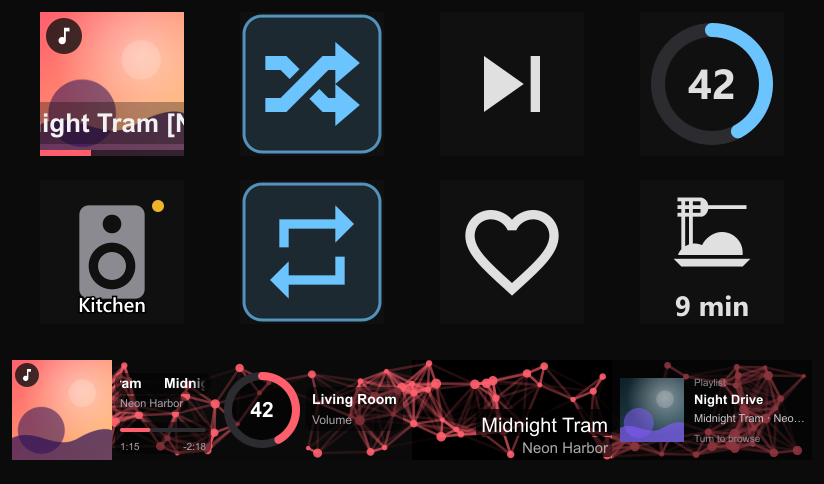
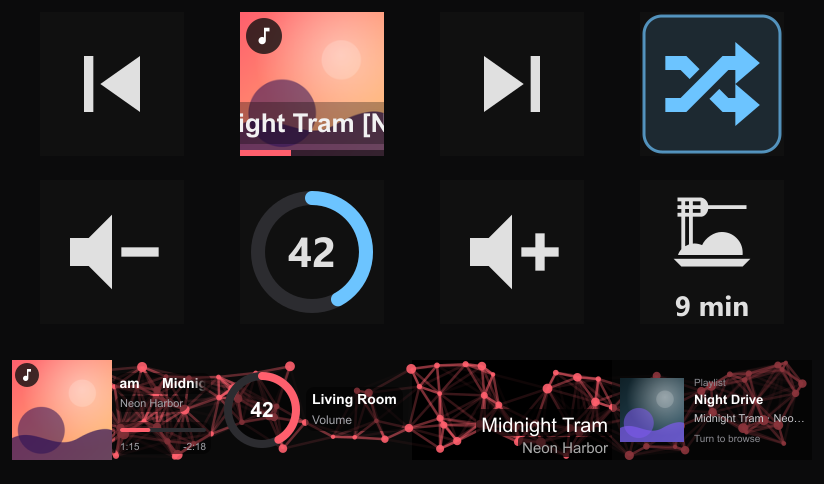
Showcase: synced-lyrics scene (invented lyrics), keys laid out like a real deck

diff --git a/README.md b/README.md
@@ -36,8 +36,10 @@ MAC is the sister project of **[Sonos Controller](https://github.com/rocklobster
 |---|---|
 | ![Panorama: one effect across all four dials, with the title](docs/screenshots/02-panorama.png) | ![Matrix rain behind the Track and Group Volume dials](docs/screenshots/03-matrix.png) |
 | **Panorama:** one scene across neighbouring dials, with the title or synced lyrics on top | **Effect backgrounds** behind any dial, here Matrix Rain |
-| ![Browser, Queue, Active Player and Volume dials](docs/screenshots/04-browser.png) | ![Keys and dials](docs/screenshots/01-overview.png) |
-| **Browser, Queue, Active Player** and **Volume** on the dials | Everyday keys: cover, shuffle, skip, mute ring, rooms, favorites, a pasta timer |
+| ![Synced lyrics across four Panorama dials](docs/screenshots/05-lyrics.png) | ![Browser, Queue, Active Player and Volume dials](docs/screenshots/04-browser.png) |
+| **Synced lyrics** across the Panorama dials, in time with the music (invented lyrics here) | **Browser, Queue, Active Player** and **Volume** on the dials |
+| ![Keys and dials](docs/screenshots/01-overview.png) | |
+| Everyday keys: previous, play/pause with cover, next, shuffle, volume down/mute/up, a pasta timer | |
 
 The screenshots are rendered by the simulator against a stand-in Music Assistant with invented music and generated covers (`node tools/sd-sim/showcase.mjs`).
 
